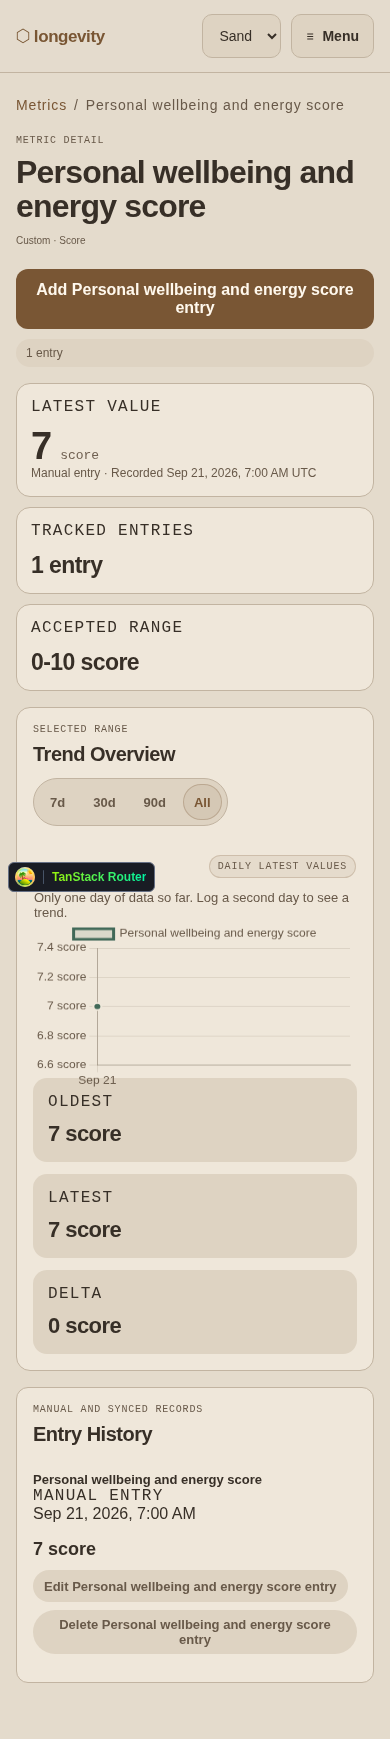
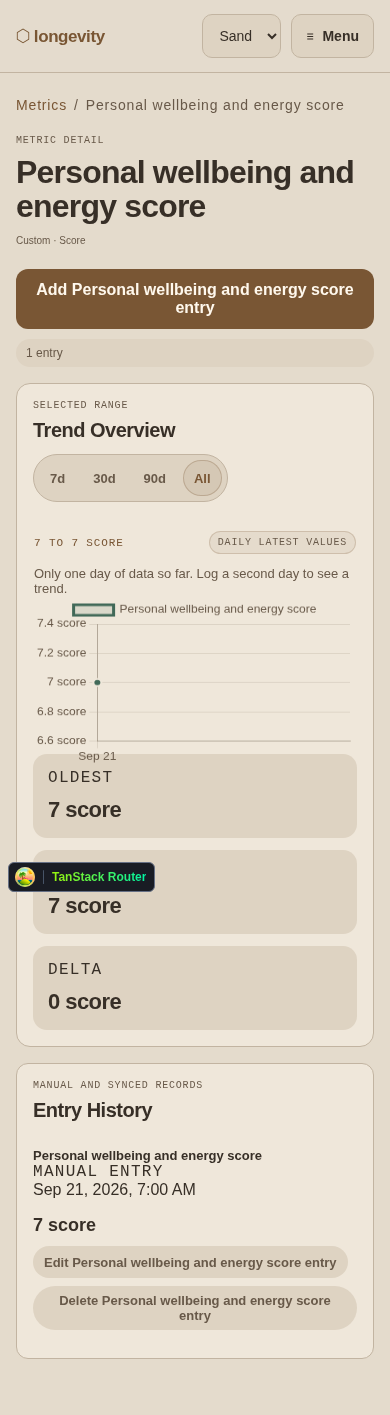
Trend Overview first,

Changed region(s): [[0.0, 0.0, 0.9846, 0.964], [0.8308, 0.0, 0.9231, 0.0311], [0.7692, 0.0, 0.8, 0.0311]]

diff --git a/frontend/src/test/metric-detail-route.test.tsx b/frontend/src/test/metric-detail-route.test.tsx
@@ -141,6 +141,30 @@ describe("metric detail route", () => {
     vi.resetAllMocks();
   });
 
+  it("leads with the trend and omits the summary section", async () => {
+    vi.mocked(getMe).mockResolvedValue({
+      email: "user@example.com",
+    });
+    mockLoadedMetricDefinitions();
+    mockLoadedMetricEntries();
+    mockMetricEntryMutations();
+
+    renderRoute("/metrics/resting_hr");
+
+    const trend = await screen.findByRole("region", {
+      name: /trend overview/i,
+    });
+    const history = screen.getByRole("region", {
+      name: /metric entry history/i,
+    });
+    expect(
+      screen.queryByRole("region", { name: /metric summary/i }),
+    ).not.toBeInTheDocument();
+    expect(
+      trend.compareDocumentPosition(history) & Node.DOCUMENT_POSITION_FOLLOWING,
+    ).toBeTruthy();
+  });
+
   it("renders one metric and its entry history for an authenticated user", async () => {
     vi.mocked(getMe).mockResolvedValue({
       email: "user@example.com",
@@ -159,13 +183,12 @@ describe("metric detail route", () => {
     ).toBeInTheDocument();
     expect(screen.getByText(/cardiovascular · bpm/i)).toBeInTheDocument();
 
-    const summary = screen.getByRole("region", {
-      name: /metric summary/i,
+    const trend = screen.getByRole("region", {
+      name: /trend overview/i,
     });
-    expect(within(summary).getByText(/latest value/i)).toBeInTheDocument();
-    expect(within(summary).getByLabelText(/58 bpm/i)).toBeInTheDocument();
-    expect(within(summary).getByText(/^1 entry$/i)).toBeInTheDocument();
-    expect(within(summary).getByText(/20-220 bpm/i)).toBeInTheDocument();
+    expect(within(trend).getByText(/^latest$/i)).toBeInTheDocument();
+    const trendStats = trend.querySelector(".trend-grid") as HTMLElement;
+    expect(within(trendStats).getAllByText(/58 bpm/i)).toHaveLength(2);
 
     const history = screen.getByRole("region", {
       name: /metric entry history/i,
@@ -335,11 +358,6 @@ describe("metric detail route", () => {
       name: /trend overview/i,
     });
 
-    const summary = screen.getByRole("region", {
-      name: /metric summary/i,
-    });
-    expect(within(summary).getByText(/^2 entries$/i)).toBeInTheDocument();
-
     expect(
       within(trend).getByRole("heading", { name: /trend overview/i }),
     ).toBeInTheDocument();
@@ -508,7 +526,7 @@ describe("metric detail route", () => {
     ).not.toBeInTheDocument();
   });
 
-  it("formats body-weight floating-point noise in the latest value", async () => {
+  it("formats body-weight floating-point noise in trend and history", async () => {
     vi.mocked(getMe).mockResolvedValue({
       email: "user@example.com",
     });
@@ -552,14 +570,11 @@ describe("metric detail route", () => {
 
     renderRoute("/metrics/body_weight");
 
-    const summary = await screen.findByRole("region", {
-      name: /metric summary/i,
+    const trend = await screen.findByRole("region", {
+      name: /trend overview/i,
     });
-
-    expect(within(summary).getByLabelText(/83\.6 kg/i)).toBeInTheDocument();
-
-    const trend = screen.getByRole("region", { name: /trend overview/i });
-    expect(within(trend).getByText(/-3\.4 kg/i)).toBeInTheDocument();
+    const trendStats = trend.querySelector(".trend-grid") as HTMLElement;
+    expect(within(trendStats).getByText(/-3\.4 kg/i)).toBeInTheDocument();
 
     const history = screen.getByRole("region", {
       name: /metric entry history/i,
@@ -1259,9 +1274,10 @@ describe("metric detail route", () => {
       name: /metric entry history/i,
     });
 
-    const summary = screen.getByRole("region", { name: /metric summary/i });
-    expect(within(summary).getByLabelText(/^7h 50m$/i)).toBeInTheDocument();
-    expect(within(summary).queryByText(/^hours$/i)).not.toBeInTheDocument();
+    const trend = screen.getByRole("region", { name: /trend overview/i });
+    const trendStats = trend.querySelector(".trend-grid") as HTMLElement;
+    expect(within(trendStats).getAllByText(/^7h 50m$/i)).toHaveLength(2);
+    expect(within(trendStats).queryByText(/^hours$/i)).not.toBeInTheDocument();
     expect(within(history).getByText(/^sleep window:/i)).toBeInTheDocument();
   });
 

diff --git a/frontend/src/index.css b/frontend/src/index.css
@@ -2279,13 +2279,6 @@ button {
   text-decoration: underline;
 }
 
-.metric-detail-hero {
-  display: flex;
-  align-items: start;
-  justify-content: space-between;
-  gap: 22px;
-}
-
 .metric-detail-hero-actions {
   display: flex;
   align-items: center;
@@ -2318,54 +2311,6 @@ button {
   font-size: 12px;
   letter-spacing: 0;
   text-transform: none;
-}
-
-.metric-detail-summary {
-  display: grid;
-  grid-template-columns: 1.4fr repeat(2, minmax(0, 1fr));
-  gap: 12px;
-}
-
-.metric-detail-stat {
-  border: 1px solid var(--border);
-  border-radius: 18px;
-  background: var(--list-bg);
-  padding: 18px;
-}
-
-.metric-detail-stat-primary {
-  border-color: color-mix(in srgb, var(--accent) 55%, transparent);
-  box-shadow: 0 0 24px color-mix(in srgb, var(--accent) 8%, transparent);
-}
-
-.metric-detail-value {
-  margin-top: 18px;
-  display: flex;
-  align-items: baseline;
-  gap: 8px;
-  color: var(--text);
-}
-
-.metric-detail-value span {
-  font-family: var(--font-heading);
-  font-size: clamp(36px, 5vw, 52px);
-  font-weight: 650;
-  line-height: 0.95;
-}
-
-.metric-detail-value small {
-  color: var(--muted);
-  font-family: var(--font-mono);
-  font-size: 13px;
-}
-
-.metric-detail-stat-value {
-  margin-top: 18px;
-  color: var(--text);
-  font-family: var(--font-heading);
-  font-size: 26px;
-  font-weight: 650;
-  letter-spacing: -0.025em;
 }
 
 .trend-card {
@@ -2481,7 +2426,6 @@ button {
   .app-header-inner,
   .dashboard-hero,
   .metrics-hero,
-  .metric-detail-hero,
   .entry-row {
     align-items: stretch;
     flex-direction: column;
@@ -2754,11 +2698,6 @@ button {
     gap: 16px;
   }
 
-  .metric-detail-summary {
-    grid-template-columns: 1fr;
-    gap: 10px;
-  }
-
   .metric-detail-hero-actions {
     align-items: stretch;
     flex-direction: column;
@@ -2768,27 +2707,9 @@ button {
     grid-template-columns: 1fr;
   }
 
-  .metric-detail-stat {
-    border-radius: 14px;
-    padding: 14px;
-  }
-
   .metric-detail-meta {
     margin-top: 8px;
     font-size: 10px;
-  }
-
-  .metric-detail-value {
-    margin-top: 12px;
-  }
-
-  .metric-detail-value span {
-    font-size: 38px;
-  }
-
-  .metric-detail-stat-value {
-    margin-top: 12px;
-    font-size: 22px;
   }
 
   .trend-card {
@@ -2872,15 +2793,11 @@ summary:focus-visible {
 .metric-card-link span {
   color: var(--text-dim);
 }
-.metric-card-source,
 .metric-meta {
   color: var(--text-dim);
   font-family: var(--font-sans);
   font-size: 12px;
   line-height: 1.5;
-}
-.metric-card-source {
-  overflow-wrap: anywhere;
 }
 .metric-card-trend {
   display: grid;
@@ -2928,16 +2845,6 @@ summary:focus-visible {
   border-color: var(--border);
   background: var(--surface-high);
   box-shadow: none;
-}
-.metric-detail-stat-primary {
-  border-color: var(--border);
-  box-shadow: none;
-}
-.metric-detail-stat-value {
-  font-size: 23px;
-}
-.metric-detail-summary {
-  grid-template-columns: minmax(0, 1.5fr) repeat(2, minmax(0, 1fr));
 }
 .insight-context {
   color: var(--text-dim);
@@ -3092,21 +2999,11 @@ body:has(dialog[open]) {
     font-size: 34px;
   }
   .metric-grid,
-  .insight-navigation,
-  .metric-detail-summary {
+  .insight-navigation {
     grid-template-columns: minmax(0, 1fr);
   }
   .metric-card {
     padding: 20px;
-  }
-  .metric-card-source {
-    font-size: 12px;
-  }
-  .metric-detail-stat {
-    min-width: 0;
-  }
-  .metric-detail-hero {
-    flex-direction: column;
   }
   .metric-detail-hero-actions {
     width: 100%;

diff --git a/frontend/src/routes/metrics.$slug.tsx b/frontend/src/routes/metrics.$slug.tsx
@@ -13,7 +13,6 @@ import { createPortal } from "react-dom";
 import { requireAuthBeforeLoad } from "../features/auth/require-auth-before-load";
 import {
   formatMetricEntrySource,
-  formatMetricValue,
   formatMetricValueWithUnit,
   formatSleepDate,
   formatSleepWindow,
@@ -121,10 +120,6 @@ function MetricDetailRoute() {
   }
 
   const latestEntry = metricEntries[0];
-  const formattedLatestValue = latestEntry
-    ? formatMetricValue(latestEntry.value, metricDefinition.slug)
-    : undefined;
-  const valueRange = `${metricDefinition.min_value}-${metricDefinition.max_value} ${metricDefinition.unit}`;
   const oldestEntry = metricEntries.at(-1);
   const trendDelta =
     latestEntry && oldestEntry
@@ -219,43 +214,6 @@ function MetricDetailRoute() {
           </div>
         }
       />
-
-      <section className="metric-detail-summary" aria-label="Metric summary">
-        <article className="metric-detail-stat metric-detail-stat-primary">
-          <p className="meta-label">Latest value</p>
-          <p
-            aria-label={
-              metricDefinition.slug === "sleep_duration"
-                ? (formattedLatestValue ?? "No value")
-                : `${formattedLatestValue ?? "No value"} ${metricDefinition.unit}`
-            }
-            className="metric-detail-value"
-          >
-            <span>{formattedLatestValue ?? "—"}</span>
-            {metricDefinition.slug === "sleep_duration" ? null : (
-              <small>{metricDefinition.unit}</small>
-            )}
-          </p>
-          {latestEntry ? (
-            <p className="metric-card-source">
-              {formatMetricEntrySource(latestEntry.source)} · Recorded{" "}
-              {formatMetricEntryRecordedAt(latestEntry.recorded_at)} UTC
-            </p>
-          ) : null}
-        </article>
-
-        <article className="metric-detail-stat">
-          <p className="meta-label">Tracked entries</p>
-          <p className="metric-detail-stat-value">
-            {formatMetricEntryCount(metricEntries.length)}
-          </p>
-        </article>
-
-        <article className="metric-detail-stat">
-          <p className="meta-label">Accepted range</p>
-          <p className="metric-detail-stat-value">{valueRange}</p>
-        </article>
-      </section>
 
       <section className="trend-card" aria-label="Trend overview">
         <div className="entries-toolbar">

diff --git a/reference_docs/knowledge/20-frontend-development.md b/reference_docs/knowledge/20-frontend-development.md
@@ -526,7 +526,7 @@ Current metric detail page checkpoint:
 - The detail route reads `slug` through `Route.useParams()`.
 - The detail route uses `useMetricDefinitionsQuery()` to resolve the user-facing metric definition for the slug.
 - The detail route uses `useMetricEntriesQuery({ metric: slug, limit: 50 })` to fetch a bounded entry history for that metric.
-- The detail route shows a styled summary section with latest value, tracked entry count, and accepted range.
+- The page leads with the Trend Overview (range controls directly above the chart, daily-latest line, Oldest/Latest/Delta). The old Latest-value / Tracked-entries / Accepted-range summary trio was removed as redundant with the trend boxes, header count pill, and entry-dialog validation; its CSS went with it.
 - Tracked-entry counts use singular `entry` for one record and plural `entries`
   for every other count.
 - The detail route shows a Chart.js line chart in the trend overview, plus oldest value, latest value, and delta for the selected result set.
